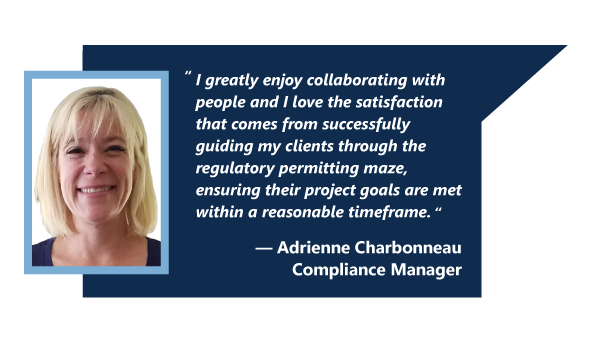
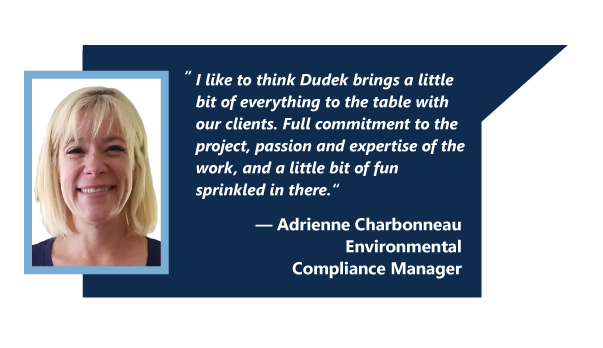
update adrienne bio

Changed region(s): [[0.3284, 0.2011, 0.7761, 0.6609], [0.4179, 0.6897, 0.7761, 0.8046]]

diff --git a/index.hyperesources/index_hype_generated_script.js b/index.hyperesources/index_hype_generated_script.js
@@ -3,5 +3,5 @@
 (function(){(function m(){function k(a,b,c,d){var e=!1;null==window[a]&&(null==window[b]?(window[b]=[],window[b].push(m),a=document.getElementsByTagName("head")[0],b=document.createElement("script"),e=l,false==!0&&(e=""),b.type="text/javascript",""!=d&&(b.integrity=d,b.setAttribute("crossorigin","anonymous")),b.src=e+"/"+c,a.appendChild(b)):window[b].push(m),e=!0);return e}var l="index.hyperesources",f="index",g="index_hype_container";if(false==
 !1)try{for(var c=document.getElementsByTagName("script"),a=0;a<c.length;a++){var d=c[a].src,b=null!=d?d.indexOf("/index_hype_generated_script.js"):-1;if(-1!=b){l=d.substr(0,b);break}}}catch(p){}c=navigator.userAgent.match(/MSIE (\d+\.\d+)/);c=parseFloat(c&&c[1])||null;d=!0==(null!=window.HYPE_734F||null!=window.HYPE_dtl_734F)||false==!0||null!=c&&10>c;a=!0==d?"HYPE-734.full.min.js":"HYPE-734.thin.min.js";c=!0==d?"F":"T";d=d?"":
 "";if(false==!1&&(a=k("HYPE_734"+c,"HYPE_dtl_734"+c,a,d),false==!0&&(a=a||k("HYPE_w_734","HYPE_wdtl_734","HYPE-734.waypoints.min.js","")),false==!0&&(a=a||k("Matter","HYPE_pdtl_734","HYPE-734.physics.min.js","")),a))return;d=window.HYPE.documents;if(null!=d[f]){b=1;a=f;do f=""+a+"-"+b++;while(null!=d[f]);for(var e=document.getElementsByTagName("div"),
-b=!1,a=0;a<e.length;a++)if(e[a].id==g&&null==e[a].getAttribute("HYP_dn")){var b=1,h=g;do g=""+h+"-"+b++;while(null!=document.getElementById(g));e[a].id=g;b=!0;break}if(!1==b)return}b=[];b=[];e={};h={};for(a=0;a<b.length;a++)try{h[b[a].identifier]=b[a].name,e[b[a].name]=eval("(function(){return "+b[a].source+"})();")}catch(n){window.console&&window.console.log(n),e[b[a].name]=function(){}}c=new window["HYPE_734"+c](f,g,{"-2":{n:"blank.gif"},"18":{p:1,n:"Vipul_quote.png",g:"160",t:"@1x"},"10":{p:1,n:"Keith_quote_2x.png",g:"256",o:true,t:"@2x"},"11":{p:1,n:"Dustin_quote.png",g:"214",t:"@1x"},"0":{p:1,n:"state_lines.png",g:"37",t:"@1x"},"12":{p:1,n:"map.png",g:"19",t:"@1x"},"1":{p:1,n:"lines.png",g:"23",t:"@1x"},"2":{p:1,n:"peeps.png",g:"25",t:"@1x"},"13":{p:1,n:"blue_dot.png",g:"59",o:true,t:"@1x"},"3":{p:1,n:"laurie_M_quote.png",g:"126",t:"@1x"},"14":{p:1,n:"blue_dot_2x.png",g:"59",o:true,t:"@2x"},"4":{p:1,n:"lisa_quote.png",g:"196",t:"@1x"},"5":{p:1,n:"erlin_quote.png",g:"234",t:"@1x"},"15":{p:1,n:"Rose_quote.png",g:"86",t:"@1x"},"6":{p:1,n:"adrienne_quote.png",g:"252",t:"@1x"},"16":{p:1,n:"legend.png",g:"281",o:true,t:"@1x"},"-1":{n:"PIE.htc"},"7":{p:1,n:"allison_quote.png",g:"254",o:true,t:"@1x"},"8":{p:1,n:"allison_quote_2x.png",g:"254",o:true,t:"@2x"},"17":{p:1,n:"legend_2x.png",g:"281",o:true,t:"@2x"},"9":{p:1,n:"Keith_quote.png",g:"256",o:true,t:"@1x"}},l,[],e,[{n:"opening",o:"1",X:[0]},{n:"adrienne",o:"236",X:[1]},{n:"Erlin",o:"218",X:[2]},{n:"Rose",o:"258",X:[3]},{n:"Allison",o:"88",X:[4]},{n:"Laurie",o:"110",X:[5]},{n:"vipul",o:"144",X:[6]},{n:"Keith",o:"162",X:[7]},{n:"Lisa",o:"180",X:[8]},{n:"dustin",o:"198",X:[9]}],
-[{o:"3",p:"600px",cA:false,Y:1240,Z:800,L:[],c:"#FFF",bY:1,d:1240,U:{},T:{kTimelineDefaultIdentifier:{q:false,z:2,i:"kTimelineDefaultIdentifier",n:"Main Timeline",a:[{f:"c",y:0,z:1,i:"e",e:0,s:1,o:"288"},{f:"c",y:0,z:1,i:"e",e:0,s:1,o:"294"},{f:"c",y:0,z:1,i:"e",e:0,s:1,o:"283"},{f:"c",y:0,z:1,i:"e",e:0,s:1,o:"286"},{f:"c",y:0,z:1,i:"e",e:0,s:1,o:"290"},{f:"c",y:0,z:1,i:"e",e:0,s:1,o:"292"},{f:"c",y:0,z:1,i:"e",e:0,s:1,o:"296"},{f:"c",y:0,z:1,i:"e",e:0,s:1,o:"284"},{f:"c",y:0,z:1,i:"e",e:0,s:1,o:"287"},{f:"c",y:1,z:1,i:"e",e:1,s:0,o:"288"},{f:"c",y:1,z:1,i:"e",e:1,s:0,o:"294"},{f:"c",y:1,z:1,i:"e",e:1,s:0,o:"283"},{f:"c",y:1,z:1,i:"e",e:1,s:0,o:"286"},{f:"c",y:1,z:1,i:"e",e:1,s:0,o:"290"},{f:"c",y:1,z:1,i:"e",e:1,s:0,o:"292"},{f:"c",y:1,z:1,i:"e",e:1,s:0,o:"296"},{f:"c",y:1,z:1,i:"e",e:1,s:0,o:"284"},{f:"c",y:1,z:1,i:"e",e:1,s:0,o:"287"},{f:"c",p:2,y:2,z:0,i:"ActionHandler",s:{a:[{b:"kTimelineDefaultIdentifier",p:3,z:false,symbolOid:"2"}]},o:"kTimelineDefaultIdentifier"},{y:2,i:"e",s:1,z:0,o:"288",f:"c"},{y:2,i:"e",s:1,z:0,o:"294",f:"c"},{y:2,i:"e",s:1,z:0,o:"283",f:"c"},{y:2,i:"e",s:1,z:0,o:"286",f:"c"},{y:2,i:"e",s:1,z:0,o:"290",f:"c"},{y:2,i:"e",s:1,z:0,o:"292",f:"c"},{y:2,i:"e",s:1,z:0,o:"296",f:"c"},{y:2,i:"e",s:1,z:0,o:"284",f:"c"},{y:2,i:"e",s:1,z:0,o:"287",f:"c"}],f:30,b:[]}},bZ:180,O:["285","291","295","293","284","296","288","286","290","287","294","283","289","292"],n:"Untitled Layout","_":0,v:{"292":{aD:{a:[{d:0.5,p:1,g:2,e:"198"}]},p:"no-repeat",x:"visible",h:"59",q:"100% 100%",a:387,j:"absolute",r:"inline",z:13,b:606,dB:"img",d:39,k:"div",c:39,e:1,aP:"pointer"},"289":{h:"281",p:"no-repeat",x:"visible",a:832,dB:"img",q:"100% 100%",j:"absolute",r:"inline",z:17,k:"div",b:539,d:22.32,c:201.6},"284":{aD:{a:[{d:0.25,p:1,g:2,e:"218"}]},p:"no-repeat",x:"visible",h:"59",q:"100% 100%",a:1019,j:"absolute",r:"inline",z:15,b:230,dB:"img",d:39,k:"div",c:39,e:1,aP:"pointer"},"290":{aD:{a:[{d:0.25,p:1,g:2,e:"162"}]},p:"no-repeat",x:"visible",h:"59",q:"100% 100%",a:487,j:"absolute",r:"inline",z:12,b:318,dB:"img",d:39,k:"div",c:39,e:1,aP:"pointer"},"295":{h:"19",p:"no-repeat",x:"visible",a:0,dB:"img",q:"100% 100%",j:"absolute",r:"inline",z:1,k:"div",b:0,d:800,c:1240},"287":{aD:{a:[{d:0.5,p:1,g:2,e:"236"}]},p:"no-repeat",x:"visible",h:"59",q:"100% 100%",a:1135,j:"absolute",r:"inline",z:16,b:464,dB:"img",d:39,k:"div",c:39,e:1,aP:"pointer"},"293":{h:"23",p:"no-repeat",x:"visible",a:20,dB:"img",q:"100% 100%",j:"absolute",r:"inline",z:6,b:20,k:"div",d:800,c:1240,e:1},"296":{aD:{a:[{d:0.5,p:1,g:2,e:"180"}]},p:"no-repeat",x:"visible",h:"59",q:"100% 100%",a:793,j:"absolute",r:"inline",z:14,b:279,dB:"img",d:39,k:"div",c:39,e:1,aP:"pointer"},"291":{h:"37",p:"no-repeat",x:"visible",a:0,dB:"img",q:"100% 100%",j:"absolute",r:"inline",z:2,k:"div",b:0,d:800,c:1240},"285":{h:"25",p:"no-repeat",x:"visible",a:4,dB:"img",q:"100% 100%",j:"absolute",r:"inline",z:5,k:"div",b:0,d:800,c:1240},"294":{aD:{a:[{d:0.25,p:1,g:2,e:"110"}]},p:"no-repeat",x:"visible",h:"59",q:"100% 100%",a:85,j:"absolute",r:"inline",z:9,b:472,dB:"img",d:39,k:"div",c:39,e:1,aP:"pointer"},"283":{aD:{a:[{d:0.25,p:1,g:2,e:"144"}]},p:"no-repeat",x:"visible",h:"59",q:"100% 100%",a:149,j:"absolute",r:"inline",z:10,b:541,dB:"img",d:39,k:"div",c:39,e:1,aP:"pointer"},"288":{aD:{a:[{d:0.25,p:1,g:2,e:"258"}]},p:"no-repeat",x:"visible",h:"59",q:"100% 100%",a:124,j:"absolute",r:"inline",b:310,z:7,dB:"img",d:39,k:"div",c:39,e:1,aP:"pointer",bD:"none"},"286":{aD:{a:[{d:0.25,p:1,g:2,e:"88"}]},p:"no-repeat",x:"visible",h:"59",q:"100% 100%",a:228,j:"absolute",r:"inline",z:11,b:305,dB:"img",d:39,k:"div",c:39,e:1,aP:"pointer"}}},{o:"251",p:"600px",cA:false,Y:1240,Z:800,L:[],c:"#FFF",bY:1,d:1240,U:{},T:{kTimelineDefaultIdentifier:{q:false,z:0,i:"kTimelineDefaultIdentifier",n:"Main Timeline",a:[],f:30,b:[]}},bZ:180,O:["299","301","302","298","300","297"],n:"Untitled Layout","_":1,v:{"299":{h:"25",p:"no-repeat",x:"visible",a:4,dB:"img",q:"100% 100%",j:"absolute",r:"inline",z:4,k:"div",b:0,d:800,c:1240},"301":{h:"37",p:"no-repeat",x:"visible",a:0,dB:"img",q:"100% 100%",j:"absolute",r:"inline",z:2,k:"div",b:0,d:800,c:1240},"302":{h:"19",p:"no-repeat",x:"visible",a:0,dB:"img",q:"100% 100%",j:"absolute",r:"inline",z:1,k:"div",b:0,d:800,c:1240},"297":{h:"59",p:"no-repeat",x:"visible",a:1135,q:"100% 100%",b:464,j:"absolute",r:"inline",z:15,dB:"img",k:"div",d:39,c:39,e:1,aP:"pointer",aC:{a:[{d:0.25,p:1,g:2,e:"1"}]}},"298":{h:"23",p:"no-repeat",x:"visible",a:20,dB:"img",q:"100% 100%",j:"absolute",r:"inline",z:5,b:20,k:"div",d:800,c:1240,e:1},"300":{h:"252",p:"no-repeat",x:"visible",a:581,dB:"img",q:"100% 100%",j:"absolute",r:"inline",z:6,k:"div",b:442,d:348,c:603}}},{o:"233",p:"600px",cA:false,Y:1240,Z:800,L:[],c:"#FFF",bY:1,d:1240,U:{},T:{kTimelineDefaultIdentifier:{q:false,z:0,i:"kTimelineDefaultIdentifier",n:"Main Timeline",a:[],f:30,b:[]}},bZ:180,O:["304","307","306","303","305","308"],n:"Untitled Layout","_":2,v:{"308":{h:"59",p:"no-repeat",x:"visible",a:1019,q:"100% 100%",b:230,j:"absolute",r:"inline",z:14,dB:"img",k:"div",d:39,c:39,e:1,aP:"pointer",aC:{a:[{d:0.25,p:1,g:2,e:"1"}]}},"305":{h:"234",p:"no-repeat",x:"visible",a:471,dB:"img",q:"100% 100%",j:"absolute",r:"inline",z:6,k:"div",b:203,d:348,c:603},"306":{h:"19",p:"no-repeat",x:"visible",a:0,dB:"img",q:"100% 100%",j:"absolute",r:"inline",z:1,k:"div",b:0,d:800,c:1240},"303":{h:"23",p:"no-repeat",x:"visible",a:20,dB:"img",q:"100% 100%",j:"absolute",r:"inline",z:5,b:20,k:"div",d:800,c:1240,e:1},"307":{h:"37",p:"no-repeat",x:"visible",a:0,dB:"img",q:"100% 100%",j:"absolute",r:"inline",z:2,k:"div",b:0,d:800,c:1240},"304":{h:"25",p:"no-repeat",x:"visible",a:4,dB:"img",q:"100% 100%",j:"absolute",r:"inline",z:4,k:"div",b:0,d:800,c:1240}}},{o:"266",p:"600px",cA:false,Y:1240,Z:800,L:[],c:"#FFF",bY:1,d:1240,U:{},T:{kTimelineDefaultIdentifier:{q:false,z:0,i:"kTimelineDefaultIdentifier",n:"Main Timeline",a:[],f:30,b:[]}},bZ:180,O:["314","313","312","311","310","309"],n:"Untitled Layout","_":3,v:{"313":{h:"37",p:"no-repeat",x:"visible",a:0,dB:"img",q:"100% 100%",j:"absolute",r:"inline",z:2,k:"div",b:0,d:800,c:1240},"310":{h:"86",p:"no-repeat",x:"visible",a:124,dB:"img",q:"100% 100%",j:"absolute",r:"inline",z:6,k:"div",b:285,d:348,c:603},"309":{h:"59",p:"no-repeat",x:"visible",a:124,q:"100% 100%",b:310,j:"absolute",r:"inline",z:7,dB:"img",k:"div",d:39,c:39,e:1,aP:"pointer",aC:{a:[{d:0.25,p:1,g:2,e:"1"}]}},"311":{h:"23",p:"no-repeat",x:"visible",a:20,dB:"img",q:"100% 100%",j:"absolute",r:"inline",z:5,b:20,k:"div",d:800,c:1240,e:1},"314":{h:"25",p:"no-repeat",x:"visible",a:4,dB:"img",q:"100% 100%",j:"absolute",r:"inline",z:4,k:"div",b:0,d:800,c:1240},"312":{h:"19",p:"no-repeat",x:"visible",a:0,dB:"img",q:"100% 100%",j:"absolute",r:"inline",z:1,k:"div",b:0,d:800,c:1240}}},{o:"103",p:"600px",cA:false,Y:1240,Z:800,L:[],c:"#FFF",bY:1,d:1240,U:{},T:{kTimelineDefaultIdentifier:{q:false,z:0,i:"kTimelineDefaultIdentifier",n:"Main Timeline",a:[],f:30,b:[]}},bZ:180,O:["317","318","319","315","320","316"],n:"Untitled Layout","_":4,v:{"320":{h:"59",p:"no-repeat",x:"visible",a:228,q:"100% 100%",b:305,j:"absolute",r:"inline",z:11,dB:"img",k:"div",d:39,c:39,e:1,aP:"pointer",aC:{a:[{d:0.25,p:1,g:2,e:"1"}]}},"317":{h:"25",p:"no-repeat",x:"visible",a:4,dB:"img",q:"100% 100%",j:"absolute",r:"inline",z:4,k:"div",b:0,d:800,c:1240},"318":{h:"37",p:"no-repeat",x:"visible",a:0,dB:"img",q:"100% 100%",j:"absolute",r:"inline",z:2,k:"div",b:0,d:800,c:1240},"315":{h:"23",p:"no-repeat",x:"visible",a:20,dB:"img",q:"100% 100%",j:"absolute",r:"inline",z:5,b:20,k:"div",d:800,c:1240,e:1},"319":{h:"19",p:"no-repeat",x:"visible",a:0,dB:"img",q:"100% 100%",j:"absolute",r:"inline",z:1,k:"div",b:0,d:800,c:1240},"316":{h:"254",p:"no-repeat",x:"visible",a:257,dB:"img",q:"100% 100%",j:"absolute",r:"inline",z:10,k:"div",b:325,d:252.48,c:544.56}}},{o:"125",p:"600px",cA:false,Y:1240,Z:800,L:[],c:"#FFF",bY:1,d:1240,U:{},T:{kTimelineDefaultIdentifier:{q:false,z:0,i:"kTimelineDefaultIdentifier",n:"Main Timeline",a:[],f:30,b:[]}},bZ:180,O:["321","324","322","325","323","326"],n:"Untitled Layout","_":5,v:{"325":{h:"23",p:"no-repeat",x:"visible",a:20,dB:"img",q:"100% 100%",j:"absolute",r:"inline",z:5,b:20,k:"div",d:800,c:1240,e:1},"322":{h:"19",p:"no-repeat",x:"visible",a:0,dB:"img",q:"100% 100%",j:"absolute",r:"inline",z:1,k:"div",b:0,d:800,c:1240},"326":{h:"59",p:"no-repeat",x:"visible",a:85,q:"100% 100%",b:472,j:"absolute",r:"inline",z:8,dB:"img",k:"div",d:39,c:39,e:1,aP:"pointer",aC:{a:[{d:0.25,p:1,g:2,e:"1"}]}},"323":{h:"126",p:"no-repeat",x:"visible",a:76,dB:"img",q:"100% 100%",j:"absolute",r:"inline",z:7,k:"div",b:444,d:348,c:603},"324":{h:"37",p:"no-repeat",x:"visible",a:0,dB:"img",q:"100% 100%",j:"absolute",r:"inline",z:2,k:"div",b:0,d:800,c:1240},"321":{h:"25",p:"no-repeat",x:"visible",a:4,dB:"img",q:"100% 100%",j:"absolute",r:"inline",z:4,k:"div",b:0,d:800,c:1240}}},{o:"159",p:"600px",cA:false,Y:1240,Z:800,L:[],c:"#FFF",bY:1,d:1240,U:{},T:{kTimelineDefaultIdentifier:{q:false,z:0,i:"kTimelineDefaultIdentifier",n:"Main Timeline",a:[],f:30,b:[]}},bZ:180,O:["329","331","330","327","328","332"],n:"Untitled Layout","_":6,v:{"330":{h:"19",p:"no-repeat",x:"visible",a:0,dB:"img",q:"100% 100%",j:"absolute",r:"inline",z:1,k:"div",b:0,d:800,c:1240},"329":{h:"25",p:"no-repeat",x:"visible",a:4,dB:"img",q:"100% 100%",j:"absolute",r:"inline",z:4,k:"div",b:0,d:800,c:1240},"331":{h:"37",p:"no-repeat",x:"visible",a:0,dB:"img",q:"100% 100%",j:"absolute",r:"inline",z:2,k:"div",b:0,d:800,c:1240},"327":{h:"23",p:"no-repeat",x:"visible",a:20,dB:"img",q:"100% 100%",j:"absolute",r:"inline",z:5,b:20,k:"div",d:800,c:1240,e:1},"332":{h:"59",p:"no-repeat",x:"visible",a:149,q:"100% 100%",b:541,j:"absolute",r:"inline",z:9,dB:"img",k:"div",d:39,c:39,e:1,aP:"pointer",aC:{a:[{d:0.25,p:1,g:2,e:"1"}]}},"328":{h:"160",p:"no-repeat",x:"visible",a:133,dB:"img",q:"100% 100%",j:"absolute",r:"inline",z:6,k:"div",b:267,d:348,c:603}}},{o:"177",p:"600px",cA:false,Y:1240,Z:800,L:[],c:"#FFF",bY:1,d:1240,U:{},T:{kTimelineDefaultIdentifier:{q:false,z:0,i:"kTimelineDefaultIdentifier",n:"Main Timeline",a:[],f:30,b:[]}},bZ:180,O:["337","333","334","335","336","338"],n:"Untitled Layout","_":7,v:{"337":{h:"25",p:"no-repeat",x:"visible",a:4,dB:"img",q:"100% 100%",j:"absolute",r:"inline",z:4,k:"div",b:0,d:800,c:1240},"334":{h:"19",p:"no-repeat",x:"visible",a:0,dB:"img",q:"100% 100%",j:"absolute",r:"inline",z:1,k:"div",b:0,d:800,c:1240},"338":{h:"256",p:"no-repeat",x:"visible",a:507,dB:"img",q:"100% 100%",j:"absolute",r:"inline",z:11,k:"div",b:338,d:252.48,c:541.44},"335":{h:"23",p:"no-repeat",x:"visible",a:20,dB:"img",q:"100% 100%",j:"absolute",r:"inline",z:5,b:20,k:"div",d:800,c:1240,e:1},"336":{h:"59",p:"no-repeat",x:"visible",a:487,q:"100% 100%",b:318,j:"absolute",r:"inline",z:12,dB:"img",k:"div",d:39,c:39,e:1,aP:"pointer",aC:{a:[{d:0.25,p:1,g:2,e:"1"}]}},"333":{h:"37",p:"no-repeat",x:"visible",a:0,dB:"img",q:"100% 100%",j:"absolute",r:"inline",z:2,k:"div",b:0,d:800,c:1240}}},{o:"195",p:"600px",cA:false,Y:1240,Z:800,L:[],c:"#FFF",bY:1,d:1240,U:{},T:{kTimelineDefaultIdentifier:{q:false,z:2,i:"kTimelineDefaultIdentifier",n:"Main Timeline",a:[{f:"c",y:0,z:1,i:"e",e:0,s:1,o:"342"},{f:"c",y:1,z:1,i:"e",e:1,s:0,o:"342"},{f:"c",p:2,y:2,z:0,i:"ActionHandler",s:{a:[{b:"kTimelineDefaultIdentifier",p:3,z:false,symbolOid:"2"}]},o:"kTimelineDefaultIdentifier"},{y:2,i:"e",s:1,z:0,o:"342",f:"c"}],f:30,b:[]}},bZ:180,O:["339","344","340","343","341","342"],n:"Untitled Layout","_":8,v:{"342":{h:"59",p:"no-repeat",x:"visible",a:793,q:"100% 100%",b:279,j:"absolute",r:"inline",z:13,dB:"img",k:"div",d:39,c:39,e:1,aP:"pointer",aC:{a:[{d:0.5,p:1,g:2,e:"1"}]}},"343":{h:"23",p:"no-repeat",x:"visible",a:20,dB:"img",q:"100% 100%",j:"absolute",r:"inline",z:5,b:20,k:"div",d:800,c:1240,e:1},"340":{h:"19",p:"no-repeat",x:"visible",a:0,dB:"img",q:"100% 100%",j:"absolute",r:"inline",z:1,k:"div",b:0,d:800,c:1240},"339":{h:"25",p:"no-repeat",x:"visible",a:4,dB:"img",q:"100% 100%",j:"absolute",r:"inline",z:4,k:"div",b:0,d:800,c:1240},"341":{h:"196",p:"no-repeat",x:"visible",a:245,dB:"img",q:"100% 100%",j:"absolute",r:"inline",z:6,k:"div",b:255,d:348,c:603},"344":{h:"37",p:"no-repeat",x:"visible",a:0,dB:"img",q:"100% 100%",j:"absolute",r:"inline",z:2,k:"div",b:0,d:800,c:1240}}},{o:"213",p:"600px",cA:false,Y:1240,Z:800,L:[],c:"#FFF",bY:1,d:1240,U:{},T:{kTimelineDefaultIdentifier:{q:false,z:0,i:"kTimelineDefaultIdentifier",n:"Main Timeline",a:[],f:30,b:[]}},bZ:180,O:["349","348","346","345","347","350"],n:"Untitled Layout","_":9,v:{"349":{h:"25",p:"no-repeat",x:"visible",a:4,dB:"img",q:"100% 100%",j:"absolute",r:"inline",z:4,k:"div",b:0,d:800,c:1240},"346":{h:"19",p:"no-repeat",x:"visible",a:0,dB:"img",q:"100% 100%",j:"absolute",r:"inline",z:1,k:"div",b:0,d:800,c:1240},"350":{h:"59",p:"no-repeat",x:"visible",a:387,q:"100% 100%",b:606,j:"absolute",r:"inline",z:12,dB:"img",k:"div",d:39,c:39,e:1,aP:"pointer",aC:{a:[{d:0.25,p:1,g:2,e:"1"}]}},"347":{h:"214",p:"no-repeat",x:"visible",a:394,dB:"img",q:"100% 100%",j:"absolute",r:"inline",z:6,k:"div",b:322,d:348,c:603},"348":{h:"37",p:"no-repeat",x:"visible",a:0,dB:"img",q:"100% 100%",j:"absolute",r:"inline",z:2,k:"div",b:0,d:800,c:1240},"345":{h:"23",p:"no-repeat",x:"visible",a:20,dB:"img",q:"100% 100%",j:"absolute",r:"inline",z:5,b:20,k:"div",d:800,c:1240,e:1}}}],{},h,{},null,false,true,-1,true,true,false,true,true);d[f]=c.API;document.getElementById(g).setAttribute("HYP_dn",f);c.z_o(this.body)})();})();
+b=!1,a=0;a<e.length;a++)if(e[a].id==g&&null==e[a].getAttribute("HYP_dn")){var b=1,h=g;do g=""+h+"-"+b++;while(null!=document.getElementById(g));e[a].id=g;b=!0;break}if(!1==b)return}b=[];b=[];e={};h={};for(a=0;a<b.length;a++)try{h[b[a].identifier]=b[a].name,e[b[a].name]=eval("(function(){return "+b[a].source+"})();")}catch(n){window.console&&window.console.log(n),e[b[a].name]=function(){}}c=new window["HYPE_734"+c](f,g,{"-2":{n:"blank.gif"},"18":{p:1,n:"adrienne_quote.png",g:"252",t:"@1x"},"10":{p:1,n:"Dustin_quote.png",g:"214",t:"@1x"},"11":{p:1,n:"map.png",g:"19",t:"@1x"},"0":{p:1,n:"state_lines.png",g:"37",t:"@1x"},"12":{p:1,n:"blue_dot.png",g:"59",o:true,t:"@1x"},"1":{p:1,n:"lines.png",g:"23",t:"@1x"},"2":{p:1,n:"peeps.png",g:"25",t:"@1x"},"13":{p:1,n:"blue_dot_2x.png",g:"59",o:true,t:"@2x"},"3":{p:1,n:"laurie_M_quote.png",g:"126",t:"@1x"},"14":{p:1,n:"Rose_quote.png",g:"86",t:"@1x"},"4":{p:1,n:"lisa_quote.png",g:"196",t:"@1x"},"5":{p:1,n:"erlin_quote.png",g:"234",t:"@1x"},"15":{p:1,n:"legend.png",g:"281",o:true,t:"@1x"},"6":{p:1,n:"allison_quote.png",g:"254",o:true,t:"@1x"},"16":{p:1,n:"legend_2x.png",g:"281",o:true,t:"@2x"},"-1":{n:"PIE.htc"},"7":{p:1,n:"allison_quote_2x.png",g:"254",o:true,t:"@2x"},"8":{p:1,n:"Keith_quote.png",g:"256",o:true,t:"@1x"},"17":{p:1,n:"Vipul_quote.png",g:"160",t:"@1x"},"9":{p:1,n:"Keith_quote_2x.png",g:"256",o:true,t:"@2x"}},l,[],e,[{n:"opening",o:"1",X:[0]},{n:"adrienne",o:"236",X:[1]},{n:"Erlin",o:"218",X:[2]},{n:"Rose",o:"258",X:[3]},{n:"Allison",o:"88",X:[4]},{n:"Laurie",o:"110",X:[5]},{n:"vipul",o:"144",X:[6]},{n:"Keith",o:"162",X:[7]},{n:"Lisa",o:"180",X:[8]},{n:"dustin",o:"198",X:[9]}],
+[{o:"3",p:"600px",cA:false,Y:1240,Z:800,L:[],c:"#FFF",bY:1,d:1240,U:{},T:{kTimelineDefaultIdentifier:{q:false,z:2,i:"kTimelineDefaultIdentifier",n:"Main Timeline",a:[{f:"c",y:0,z:1,i:"e",e:0,s:1,o:"288"},{f:"c",y:0,z:1,i:"e",e:0,s:1,o:"294"},{f:"c",y:0,z:1,i:"e",e:0,s:1,o:"283"},{f:"c",y:0,z:1,i:"e",e:0,s:1,o:"286"},{f:"c",y:0,z:1,i:"e",e:0,s:1,o:"290"},{f:"c",y:0,z:1,i:"e",e:0,s:1,o:"292"},{f:"c",y:0,z:1,i:"e",e:0,s:1,o:"296"},{f:"c",y:0,z:1,i:"e",e:0,s:1,o:"284"},{f:"c",y:0,z:1,i:"e",e:0,s:1,o:"287"},{f:"c",y:1,z:1,i:"e",e:1,s:0,o:"288"},{f:"c",y:1,z:1,i:"e",e:1,s:0,o:"294"},{f:"c",y:1,z:1,i:"e",e:1,s:0,o:"283"},{f:"c",y:1,z:1,i:"e",e:1,s:0,o:"286"},{f:"c",y:1,z:1,i:"e",e:1,s:0,o:"290"},{f:"c",y:1,z:1,i:"e",e:1,s:0,o:"292"},{f:"c",y:1,z:1,i:"e",e:1,s:0,o:"296"},{f:"c",y:1,z:1,i:"e",e:1,s:0,o:"284"},{f:"c",y:1,z:1,i:"e",e:1,s:0,o:"287"},{f:"c",p:2,y:2,z:0,i:"ActionHandler",s:{a:[{b:"kTimelineDefaultIdentifier",p:3,z:false,symbolOid:"2"}]},o:"kTimelineDefaultIdentifier"},{y:2,i:"e",s:1,z:0,o:"288",f:"c"},{y:2,i:"e",s:1,z:0,o:"294",f:"c"},{y:2,i:"e",s:1,z:0,o:"283",f:"c"},{y:2,i:"e",s:1,z:0,o:"286",f:"c"},{y:2,i:"e",s:1,z:0,o:"290",f:"c"},{y:2,i:"e",s:1,z:0,o:"292",f:"c"},{y:2,i:"e",s:1,z:0,o:"296",f:"c"},{y:2,i:"e",s:1,z:0,o:"284",f:"c"},{y:2,i:"e",s:1,z:0,o:"287",f:"c"}],f:30,b:[]}},bZ:180,O:["285","291","295","293","284","296","288","286","290","287","294","283","289","292"],n:"Untitled Layout","_":0,v:{"292":{aD:{a:[{d:0.5,p:1,g:2,e:"198"}]},p:"no-repeat",x:"visible",h:"59",q:"100% 100%",a:387,j:"absolute",r:"inline",z:13,b:606,dB:"img",d:39,k:"div",c:39,e:1,aP:"pointer"},"289":{h:"281",p:"no-repeat",x:"visible",a:832,dB:"img",q:"100% 100%",j:"absolute",r:"inline",z:17,k:"div",b:539,d:22.32,c:201.6},"284":{aD:{a:[{d:0.25,p:1,g:2,e:"218"}]},p:"no-repeat",x:"visible",h:"59",q:"100% 100%",a:1019,j:"absolute",r:"inline",z:15,b:230,dB:"img",d:39,k:"div",c:39,e:1,aP:"pointer"},"290":{aD:{a:[{d:0.25,p:1,g:2,e:"162"}]},p:"no-repeat",x:"visible",h:"59",q:"100% 100%",a:487,j:"absolute",r:"inline",z:12,b:318,dB:"img",d:39,k:"div",c:39,e:1,aP:"pointer"},"295":{h:"19",p:"no-repeat",x:"visible",a:0,dB:"img",q:"100% 100%",j:"absolute",r:"inline",z:1,k:"div",b:0,d:800,c:1240},"287":{aD:{a:[{d:0.5,p:1,g:2,e:"236"}]},p:"no-repeat",x:"visible",h:"59",q:"100% 100%",a:1135,j:"absolute",r:"inline",z:16,b:464,dB:"img",d:39,k:"div",c:39,e:1,aP:"pointer"},"293":{h:"23",p:"no-repeat",x:"visible",a:20,dB:"img",q:"100% 100%",j:"absolute",r:"inline",z:6,b:20,k:"div",d:800,c:1240,e:1},"296":{aD:{a:[{d:0.5,p:1,g:2,e:"180"}]},p:"no-repeat",x:"visible",h:"59",q:"100% 100%",a:793,j:"absolute",r:"inline",z:14,b:279,dB:"img",d:39,k:"div",c:39,e:1,aP:"pointer"},"291":{h:"37",p:"no-repeat",x:"visible",a:0,dB:"img",q:"100% 100%",j:"absolute",r:"inline",z:2,k:"div",b:0,d:800,c:1240},"285":{h:"25",p:"no-repeat",x:"visible",a:4,dB:"img",q:"100% 100%",j:"absolute",r:"inline",z:5,k:"div",b:0,d:800,c:1240},"294":{aD:{a:[{d:0.25,p:1,g:2,e:"110"}]},p:"no-repeat",x:"visible",h:"59",q:"100% 100%",a:85,j:"absolute",r:"inline",z:9,b:472,dB:"img",d:39,k:"div",c:39,e:1,aP:"pointer"},"283":{aD:{a:[{d:0.25,p:1,g:2,e:"144"}]},p:"no-repeat",x:"visible",h:"59",q:"100% 100%",a:149,j:"absolute",r:"inline",z:10,b:541,dB:"img",d:39,k:"div",c:39,e:1,aP:"pointer"},"288":{aD:{a:[{d:0.25,p:1,g:2,e:"258"}]},p:"no-repeat",x:"visible",h:"59",q:"100% 100%",a:124,j:"absolute",r:"inline",b:310,z:7,dB:"img",d:39,k:"div",c:39,e:1,aP:"pointer",bD:"none"},"286":{aD:{a:[{d:0.25,p:1,g:2,e:"88"}]},p:"no-repeat",x:"visible",h:"59",q:"100% 100%",a:228,j:"absolute",r:"inline",z:11,b:305,dB:"img",d:39,k:"div",c:39,e:1,aP:"pointer"}}},{o:"251",p:"600px",cA:false,Y:1240,Z:800,L:[],c:"#FFF",bY:1,d:1240,U:{},T:{kTimelineDefaultIdentifier:{q:false,z:0,i:"kTimelineDefaultIdentifier",n:"Main Timeline",a:[],f:30,b:[]}},bZ:180,O:["299","301","297","298","300","302"],n:"Untitled Layout","_":1,v:{"299":{h:"25",p:"no-repeat",x:"visible",a:4,dB:"img",q:"100% 100%",j:"absolute",r:"inline",z:4,k:"div",b:0,d:800,c:1240},"301":{h:"37",p:"no-repeat",x:"visible",a:0,dB:"img",q:"100% 100%",j:"absolute",r:"inline",z:2,k:"div",b:0,d:800,c:1240},"302":{h:"59",p:"no-repeat",x:"visible",a:1135,q:"100% 100%",b:464,j:"absolute",r:"inline",z:15,dB:"img",k:"div",d:39,c:39,e:1,aP:"pointer",aC:{a:[{d:0.25,p:1,g:2,e:"1"}]}},"297":{h:"19",p:"no-repeat",x:"visible",a:0,dB:"img",q:"100% 100%",j:"absolute",r:"inline",z:1,k:"div",b:0,d:800,c:1240},"298":{h:"23",p:"no-repeat",x:"visible",a:20,dB:"img",q:"100% 100%",j:"absolute",r:"inline",z:5,b:20,k:"div",d:800,c:1240,e:1},"300":{h:"252",p:"no-repeat",x:"visible",a:581,dB:"img",q:"100% 100%",j:"absolute",r:"inline",z:6,k:"div",b:442,d:348,c:603}}},{o:"233",p:"600px",cA:false,Y:1240,Z:800,L:[],c:"#FFF",bY:1,d:1240,U:{},T:{kTimelineDefaultIdentifier:{q:false,z:0,i:"kTimelineDefaultIdentifier",n:"Main Timeline",a:[],f:30,b:[]}},bZ:180,O:["304","307","306","303","305","308"],n:"Untitled Layout","_":2,v:{"308":{h:"59",p:"no-repeat",x:"visible",a:1019,q:"100% 100%",b:230,j:"absolute",r:"inline",z:14,dB:"img",k:"div",d:39,c:39,e:1,aP:"pointer",aC:{a:[{d:0.25,p:1,g:2,e:"1"}]}},"305":{h:"234",p:"no-repeat",x:"visible",a:471,dB:"img",q:"100% 100%",j:"absolute",r:"inline",z:6,k:"div",b:203,d:348,c:603},"306":{h:"19",p:"no-repeat",x:"visible",a:0,dB:"img",q:"100% 100%",j:"absolute",r:"inline",z:1,k:"div",b:0,d:800,c:1240},"303":{h:"23",p:"no-repeat",x:"visible",a:20,dB:"img",q:"100% 100%",j:"absolute",r:"inline",z:5,b:20,k:"div",d:800,c:1240,e:1},"307":{h:"37",p:"no-repeat",x:"visible",a:0,dB:"img",q:"100% 100%",j:"absolute",r:"inline",z:2,k:"div",b:0,d:800,c:1240},"304":{h:"25",p:"no-repeat",x:"visible",a:4,dB:"img",q:"100% 100%",j:"absolute",r:"inline",z:4,k:"div",b:0,d:800,c:1240}}},{o:"266",p:"600px",cA:false,Y:1240,Z:800,L:[],c:"#FFF",bY:1,d:1240,U:{},T:{kTimelineDefaultIdentifier:{q:false,z:0,i:"kTimelineDefaultIdentifier",n:"Main Timeline",a:[],f:30,b:[]}},bZ:180,O:["314","313","312","311","310","309"],n:"Untitled Layout","_":3,v:{"313":{h:"37",p:"no-repeat",x:"visible",a:0,dB:"img",q:"100% 100%",j:"absolute",r:"inline",z:2,k:"div",b:0,d:800,c:1240},"310":{h:"86",p:"no-repeat",x:"visible",a:124,dB:"img",q:"100% 100%",j:"absolute",r:"inline",z:6,k:"div",b:285,d:348,c:603},"309":{h:"59",p:"no-repeat",x:"visible",a:124,q:"100% 100%",b:310,j:"absolute",r:"inline",z:7,dB:"img",k:"div",d:39,c:39,e:1,aP:"pointer",aC:{a:[{d:0.25,p:1,g:2,e:"1"}]}},"311":{h:"23",p:"no-repeat",x:"visible",a:20,dB:"img",q:"100% 100%",j:"absolute",r:"inline",z:5,b:20,k:"div",d:800,c:1240,e:1},"314":{h:"25",p:"no-repeat",x:"visible",a:4,dB:"img",q:"100% 100%",j:"absolute",r:"inline",z:4,k:"div",b:0,d:800,c:1240},"312":{h:"19",p:"no-repeat",x:"visible",a:0,dB:"img",q:"100% 100%",j:"absolute",r:"inline",z:1,k:"div",b:0,d:800,c:1240}}},{o:"103",p:"600px",cA:false,Y:1240,Z:800,L:[],c:"#FFF",bY:1,d:1240,U:{},T:{kTimelineDefaultIdentifier:{q:false,z:0,i:"kTimelineDefaultIdentifier",n:"Main Timeline",a:[],f:30,b:[]}},bZ:180,O:["317","318","319","315","320","316"],n:"Untitled Layout","_":4,v:{"320":{h:"59",p:"no-repeat",x:"visible",a:228,q:"100% 100%",b:305,j:"absolute",r:"inline",z:11,dB:"img",k:"div",d:39,c:39,e:1,aP:"pointer",aC:{a:[{d:0.25,p:1,g:2,e:"1"}]}},"317":{h:"25",p:"no-repeat",x:"visible",a:4,dB:"img",q:"100% 100%",j:"absolute",r:"inline",z:4,k:"div",b:0,d:800,c:1240},"318":{h:"37",p:"no-repeat",x:"visible",a:0,dB:"img",q:"100% 100%",j:"absolute",r:"inline",z:2,k:"div",b:0,d:800,c:1240},"315":{h:"23",p:"no-repeat",x:"visible",a:20,dB:"img",q:"100% 100%",j:"absolute",r:"inline",z:5,b:20,k:"div",d:800,c:1240,e:1},"319":{h:"19",p:"no-repeat",x:"visible",a:0,dB:"img",q:"100% 100%",j:"absolute",r:"inline",z:1,k:"div",b:0,d:800,c:1240},"316":{h:"254",p:"no-repeat",x:"visible",a:257,dB:"img",q:"100% 100%",j:"absolute",r:"inline",z:10,k:"div",b:325,d:252.48,c:544.56}}},{o:"125",p:"600px",cA:false,Y:1240,Z:800,L:[],c:"#FFF",bY:1,d:1240,U:{},T:{kTimelineDefaultIdentifier:{q:false,z:0,i:"kTimelineDefaultIdentifier",n:"Main Timeline",a:[],f:30,b:[]}},bZ:180,O:["321","324","322","325","323","326"],n:"Untitled Layout","_":5,v:{"325":{h:"23",p:"no-repeat",x:"visible",a:20,dB:"img",q:"100% 100%",j:"absolute",r:"inline",z:5,b:20,k:"div",d:800,c:1240,e:1},"322":{h:"19",p:"no-repeat",x:"visible",a:0,dB:"img",q:"100% 100%",j:"absolute",r:"inline",z:1,k:"div",b:0,d:800,c:1240},"326":{h:"59",p:"no-repeat",x:"visible",a:85,q:"100% 100%",b:472,j:"absolute",r:"inline",z:8,dB:"img",k:"div",d:39,c:39,e:1,aP:"pointer",aC:{a:[{d:0.25,p:1,g:2,e:"1"}]}},"323":{h:"126",p:"no-repeat",x:"visible",a:76,dB:"img",q:"100% 100%",j:"absolute",r:"inline",z:7,k:"div",b:444,d:348,c:603},"324":{h:"37",p:"no-repeat",x:"visible",a:0,dB:"img",q:"100% 100%",j:"absolute",r:"inline",z:2,k:"div",b:0,d:800,c:1240},"321":{h:"25",p:"no-repeat",x:"visible",a:4,dB:"img",q:"100% 100%",j:"absolute",r:"inline",z:4,k:"div",b:0,d:800,c:1240}}},{o:"159",p:"600px",cA:false,Y:1240,Z:800,L:[],c:"#FFF",bY:1,d:1240,U:{},T:{kTimelineDefaultIdentifier:{q:false,z:0,i:"kTimelineDefaultIdentifier",n:"Main Timeline",a:[],f:30,b:[]}},bZ:180,O:["329","331","330","327","328","332"],n:"Untitled Layout","_":6,v:{"330":{h:"19",p:"no-repeat",x:"visible",a:0,dB:"img",q:"100% 100%",j:"absolute",r:"inline",z:1,k:"div",b:0,d:800,c:1240},"329":{h:"25",p:"no-repeat",x:"visible",a:4,dB:"img",q:"100% 100%",j:"absolute",r:"inline",z:4,k:"div",b:0,d:800,c:1240},"331":{h:"37",p:"no-repeat",x:"visible",a:0,dB:"img",q:"100% 100%",j:"absolute",r:"inline",z:2,k:"div",b:0,d:800,c:1240},"327":{h:"23",p:"no-repeat",x:"visible",a:20,dB:"img",q:"100% 100%",j:"absolute",r:"inline",z:5,b:20,k:"div",d:800,c:1240,e:1},"332":{h:"59",p:"no-repeat",x:"visible",a:149,q:"100% 100%",b:541,j:"absolute",r:"inline",z:9,dB:"img",k:"div",d:39,c:39,e:1,aP:"pointer",aC:{a:[{d:0.25,p:1,g:2,e:"1"}]}},"328":{h:"160",p:"no-repeat",x:"visible",a:133,dB:"img",q:"100% 100%",j:"absolute",r:"inline",z:6,k:"div",b:267,d:348,c:603}}},{o:"177",p:"600px",cA:false,Y:1240,Z:800,L:[],c:"#FFF",bY:1,d:1240,U:{},T:{kTimelineDefaultIdentifier:{q:false,z:0,i:"kTimelineDefaultIdentifier",n:"Main Timeline",a:[],f:30,b:[]}},bZ:180,O:["333","337","338","335","336","334"],n:"Untitled Layout","_":7,v:{"337":{h:"37",p:"no-repeat",x:"visible",a:0,dB:"img",q:"100% 100%",j:"absolute",r:"inline",z:2,k:"div",b:0,d:800,c:1240},"334":{h:"256",p:"no-repeat",x:"visible",a:507,dB:"img",q:"100% 100%",j:"absolute",r:"inline",z:11,k:"div",b:338,d:252.48,c:541.44},"338":{h:"19",p:"no-repeat",x:"visible",a:0,dB:"img",q:"100% 100%",j:"absolute",r:"inline",z:1,k:"div",b:0,d:800,c:1240},"335":{h:"23",p:"no-repeat",x:"visible",a:20,dB:"img",q:"100% 100%",j:"absolute",r:"inline",z:5,b:20,k:"div",d:800,c:1240,e:1},"336":{h:"59",p:"no-repeat",x:"visible",a:487,q:"100% 100%",b:318,j:"absolute",r:"inline",z:12,dB:"img",k:"div",d:39,c:39,e:1,aP:"pointer",aC:{a:[{d:0.25,p:1,g:2,e:"1"}]}},"333":{h:"25",p:"no-repeat",x:"visible",a:4,dB:"img",q:"100% 100%",j:"absolute",r:"inline",z:4,k:"div",b:0,d:800,c:1240}}},{o:"195",p:"600px",cA:false,Y:1240,Z:800,L:[],c:"#FFF",bY:1,d:1240,U:{},T:{kTimelineDefaultIdentifier:{q:false,z:2,i:"kTimelineDefaultIdentifier",n:"Main Timeline",a:[{f:"c",y:0,z:1,i:"e",e:0,s:1,o:"342"},{f:"c",y:1,z:1,i:"e",e:1,s:0,o:"342"},{f:"c",p:2,y:2,z:0,i:"ActionHandler",s:{a:[{b:"kTimelineDefaultIdentifier",p:3,z:false,symbolOid:"2"}]},o:"kTimelineDefaultIdentifier"},{y:2,i:"e",s:1,z:0,o:"342",f:"c"}],f:30,b:[]}},bZ:180,O:["339","344","340","343","341","342"],n:"Untitled Layout","_":8,v:{"342":{h:"59",p:"no-repeat",x:"visible",a:793,q:"100% 100%",b:279,j:"absolute",r:"inline",z:13,dB:"img",k:"div",d:39,c:39,e:1,aP:"pointer",aC:{a:[{d:0.5,p:1,g:2,e:"1"}]}},"343":{h:"23",p:"no-repeat",x:"visible",a:20,dB:"img",q:"100% 100%",j:"absolute",r:"inline",z:5,b:20,k:"div",d:800,c:1240,e:1},"340":{h:"19",p:"no-repeat",x:"visible",a:0,dB:"img",q:"100% 100%",j:"absolute",r:"inline",z:1,k:"div",b:0,d:800,c:1240},"339":{h:"25",p:"no-repeat",x:"visible",a:4,dB:"img",q:"100% 100%",j:"absolute",r:"inline",z:4,k:"div",b:0,d:800,c:1240},"341":{h:"196",p:"no-repeat",x:"visible",a:245,dB:"img",q:"100% 100%",j:"absolute",r:"inline",z:6,k:"div",b:255,d:348,c:603},"344":{h:"37",p:"no-repeat",x:"visible",a:0,dB:"img",q:"100% 100%",j:"absolute",r:"inline",z:2,k:"div",b:0,d:800,c:1240}}},{o:"213",p:"600px",cA:false,Y:1240,Z:800,L:[],c:"#FFF",bY:1,d:1240,U:{},T:{kTimelineDefaultIdentifier:{q:false,z:0,i:"kTimelineDefaultIdentifier",n:"Main Timeline",a:[],f:30,b:[]}},bZ:180,O:["349","348","346","345","347","350"],n:"Untitled Layout","_":9,v:{"349":{h:"25",p:"no-repeat",x:"visible",a:4,dB:"img",q:"100% 100%",j:"absolute",r:"inline",z:4,k:"div",b:0,d:800,c:1240},"346":{h:"19",p:"no-repeat",x:"visible",a:0,dB:"img",q:"100% 100%",j:"absolute",r:"inline",z:1,k:"div",b:0,d:800,c:1240},"350":{h:"59",p:"no-repeat",x:"visible",a:387,q:"100% 100%",b:606,j:"absolute",r:"inline",z:12,dB:"img",k:"div",d:39,c:39,e:1,aP:"pointer",aC:{a:[{d:0.25,p:1,g:2,e:"1"}]}},"347":{h:"214",p:"no-repeat",x:"visible",a:394,dB:"img",q:"100% 100%",j:"absolute",r:"inline",z:6,k:"div",b:322,d:348,c:603},"348":{h:"37",p:"no-repeat",x:"visible",a:0,dB:"img",q:"100% 100%",j:"absolute",r:"inline",z:2,k:"div",b:0,d:800,c:1240},"345":{h:"23",p:"no-repeat",x:"visible",a:20,dB:"img",q:"100% 100%",j:"absolute",r:"inline",z:5,b:20,k:"div",d:800,c:1240,e:1}}}],{},h,{},null,false,true,-1,true,true,false,true,true);d[f]=c.API;document.getElementById(g).setAttribute("HYP_dn",f);c.z_o(this.body)})();})();

diff --git a/index.html b/index.html
@@ -24,7 +24,7 @@
 	<!-- copy these lines to your document: -->
 
 	<div id="index_hype_container" class="HYPE_document" style="margin:auto;position:relative;width:1240px;height:800px;overflow:hidden;">
-		<script type="text/javascript" charset="utf-8" src="index.hyperesources/index_hype_generated_script.js?12566"></script>
+		<script type="text/javascript" charset="utf-8" src="index.hyperesources/index_hype_generated_script.js?8851"></script>
 	</div>
 
 	<!-- end copy -->
